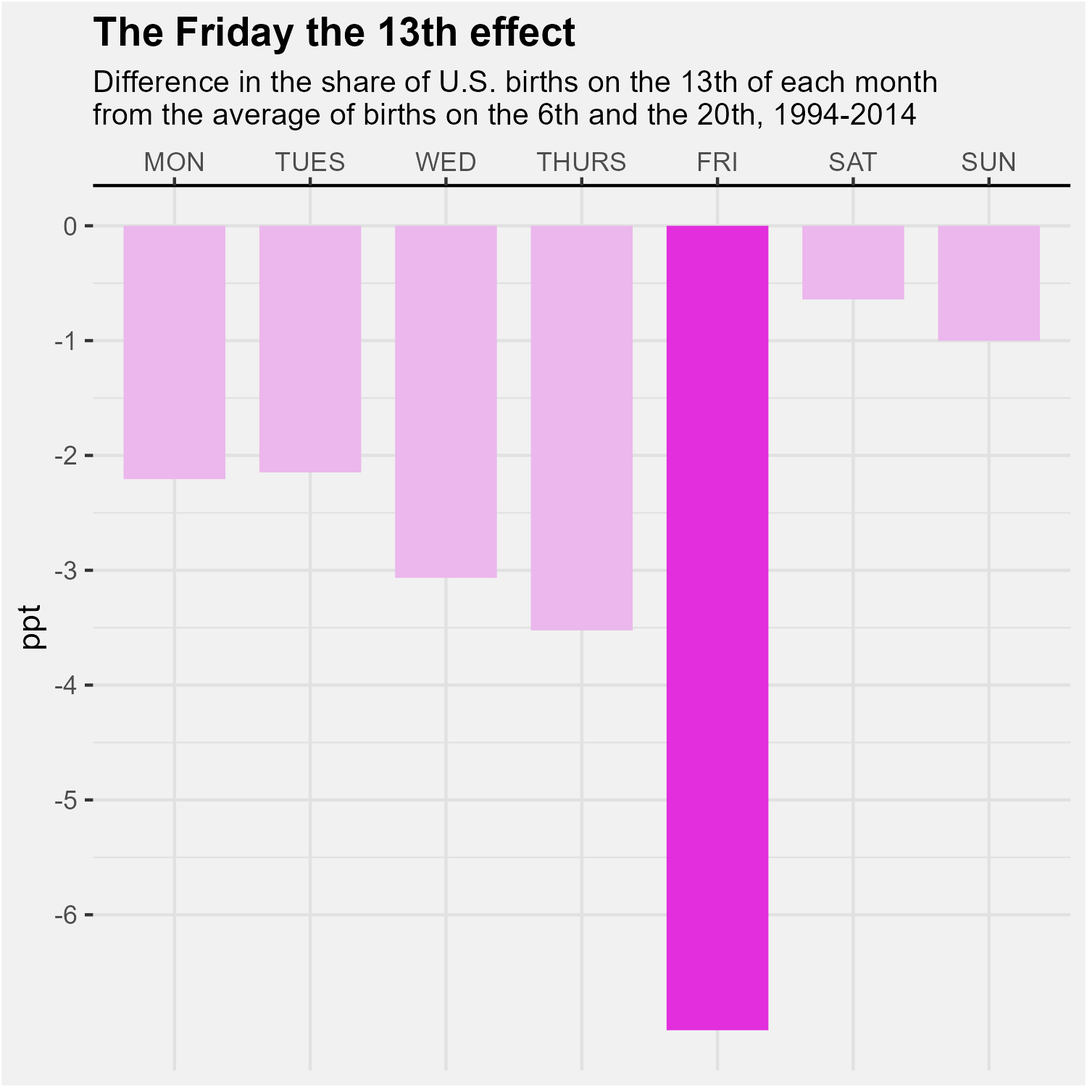
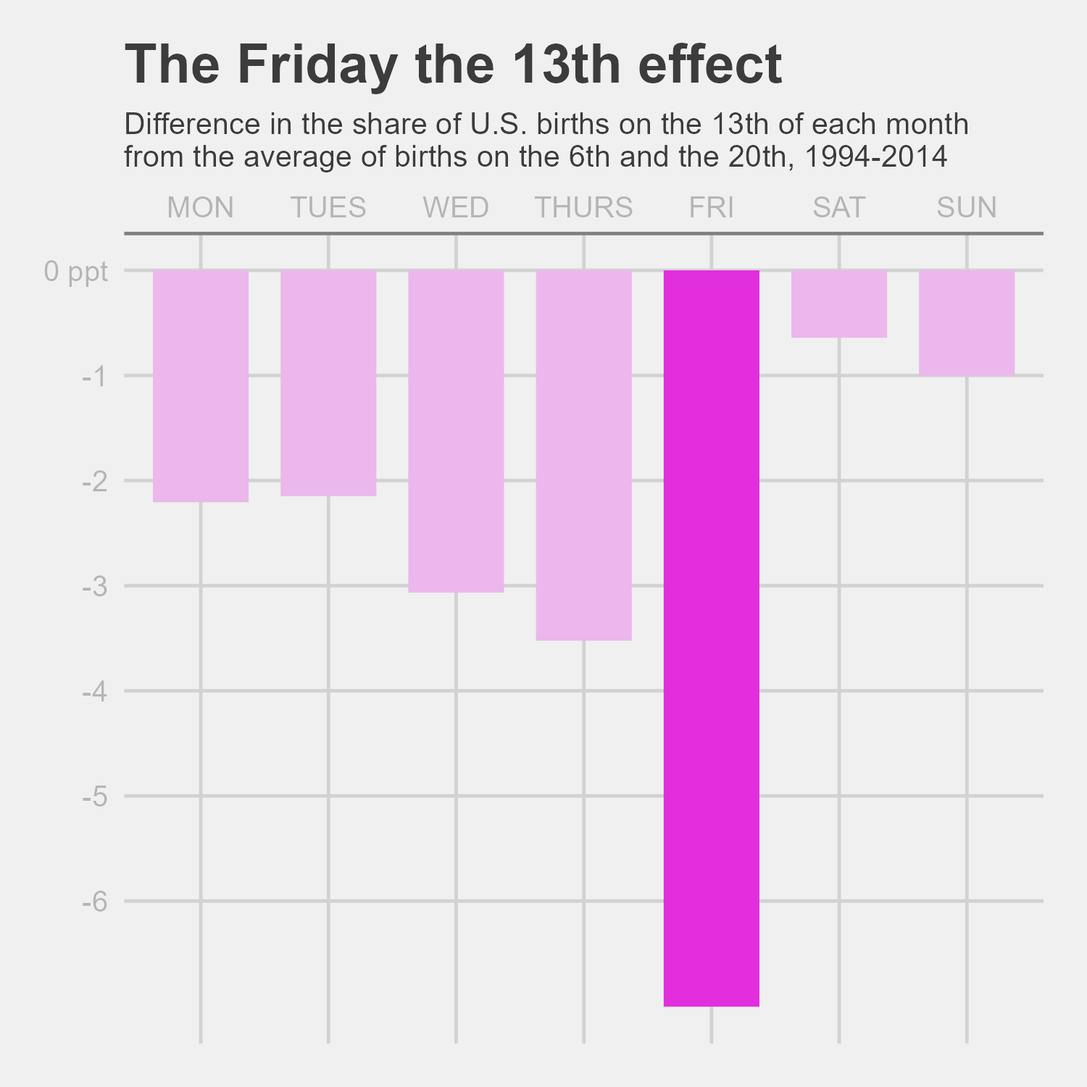
Update visualization exercise
based on comments from classmates

diff --git a/docs/visualization_exercise.html b/docs/visualization_exercise.html
@@ -212,15 +212,20 @@ code span.wa { color: #60a0b0; font-weight: bold; font-style: italic; } /* Warni
 <p>The data I will use is from the FiveThirtyEight article <a href="https://fivethirtyeight.com/features/some-people-are-too-superstitious-to-have-a-baby-on-friday-the-13th/">“Some People Are Too Superstitious To Have A Baby On Friday The 13th”</a> and the associated <a href="https://github.com/fivethirtyeight/data/tree/master/births">GitHub repository</a>. This article uses data from the National Center for Health Statistics (1994 - 2003) and the Social Security Administration (2000 - 2014). The two data files contain information on the year, month, date (as in number of the month), day of the week (1 represents Monday and 7 represents Sunday), and number of births for each date. For this exercise, I will be attempting to remake the first figure of the article shown below. <img src="VEorignalgraph.webp" class="img-fluid" width="451"></p>
 <div class="cell">
 <div class="sourceCode cell-code" id="cb1"><pre class="sourceCode r code-with-copy"><code class="sourceCode r"><span id="cb1-1"><a href="#cb1-1" aria-hidden="true" tabindex="-1"></a><span class="fu">library</span>(readr)</span>
-<span id="cb1-2"><a href="#cb1-2" aria-hidden="true" tabindex="-1"></a><span class="fu">library</span>(tidyverse)</span></code><button title="Copy to Clipboard" class="code-copy-button"><i class="bi"></i></button></pre></div>
+<span id="cb1-2"><a href="#cb1-2" aria-hidden="true" tabindex="-1"></a><span class="fu">library</span>(tidyverse)</span>
+<span id="cb1-3"><a href="#cb1-3" aria-hidden="true" tabindex="-1"></a><span class="fu">library</span>(ggthemes)</span></code><button title="Copy to Clipboard" class="code-copy-button"><i class="bi"></i></button></pre></div>
 </div>
 </section>
 <section id="data-loading" class="level2">
 <h2 class="anchored" data-anchor-id="data-loading">Data loading</h2>
 <p>I downloaded the data files and placed them into the data folder as <code>births1</code> and <code>births2</code>. Using the <code>read_delim()</code> function, these data sets will be assigned as <code>data1</code> and <code>data2</code>.</p>
 <div class="cell">
-<div class="sourceCode cell-code" id="cb2"><pre class="sourceCode r code-with-copy"><code class="sourceCode r"><span id="cb2-1"><a href="#cb2-1" aria-hidden="true" tabindex="-1"></a><span class="co">#summary of datasets</span></span>
-<span id="cb2-2"><a href="#cb2-2" aria-hidden="true" tabindex="-1"></a><span class="fu">summary</span>(data1)</span></code><button title="Copy to Clipboard" class="code-copy-button"><i class="bi"></i></button></pre></div>
+<div class="sourceCode cell-code" id="cb2"><pre class="sourceCode r code-with-copy"><code class="sourceCode r"><span id="cb2-1"><a href="#cb2-1" aria-hidden="true" tabindex="-1"></a>data1 <span class="ot">&lt;-</span> <span class="fu">read_delim</span>(<span class="at">file =</span> <span class="st">"data/births1.txt"</span>)</span>
+<span id="cb2-2"><a href="#cb2-2" aria-hidden="true" tabindex="-1"></a>data2 <span class="ot">&lt;-</span> <span class="fu">read_delim</span>(<span class="at">file =</span> <span class="st">"data/births2.txt"</span>)</span></code><button title="Copy to Clipboard" class="code-copy-button"><i class="bi"></i></button></pre></div>
+</div>
+<div class="cell">
+<div class="sourceCode cell-code" id="cb3"><pre class="sourceCode r code-with-copy"><code class="sourceCode r"><span id="cb3-1"><a href="#cb3-1" aria-hidden="true" tabindex="-1"></a><span class="co">#summary of datasets</span></span>
+<span id="cb3-2"><a href="#cb3-2" aria-hidden="true" tabindex="-1"></a><span class="fu">summary</span>(data1)</span></code><button title="Copy to Clipboard" class="code-copy-button"><i class="bi"></i></button></pre></div>
 <div class="cell-output cell-output-stdout">
 <pre><code>      year          month        date_of_month    day_of_week     births     
  Min.   :1994   Min.   : 1.000   Min.   : 1.00   Min.   :1    Min.   : 6443  
@@ -230,7 +235,7 @@ code span.wa { color: #60a0b0; font-weight: bold; font-style: italic; } /* Warni
  3rd Qu.:2001   3rd Qu.:10.000   3rd Qu.:23.00   3rd Qu.:6    3rd Qu.:12274  
  Max.   :2003   Max.   :12.000   Max.   :31.00   Max.   :7    Max.   :14540  </code></pre>
 </div>
-<div class="sourceCode cell-code" id="cb4"><pre class="sourceCode r code-with-copy"><code class="sourceCode r"><span id="cb4-1"><a href="#cb4-1" aria-hidden="true" tabindex="-1"></a><span class="fu">summary</span>(data2)</span></code><button title="Copy to Clipboard" class="code-copy-button"><i class="bi"></i></button></pre></div>
+<div class="sourceCode cell-code" id="cb5"><pre class="sourceCode r code-with-copy"><code class="sourceCode r"><span id="cb5-1"><a href="#cb5-1" aria-hidden="true" tabindex="-1"></a><span class="fu">summary</span>(data2)</span></code><button title="Copy to Clipboard" class="code-copy-button"><i class="bi"></i></button></pre></div>
 <div class="cell-output cell-output-stdout">
 <pre><code>      year          month        date_of_month    day_of_week     births     
  Min.   :2000   Min.   : 1.000   Min.   : 1.00   Min.   :1    Min.   : 5728  
@@ -240,12 +245,12 @@ code span.wa { color: #60a0b0; font-weight: bold; font-style: italic; } /* Warni
  3rd Qu.:2011   3rd Qu.:10.000   3rd Qu.:23.00   3rd Qu.:6    3rd Qu.:13082  
  Max.   :2014   Max.   :12.000   Max.   :31.00   Max.   :7    Max.   :16081  </code></pre>
 </div>
-<div class="sourceCode cell-code" id="cb6"><pre class="sourceCode r code-with-copy"><code class="sourceCode r"><span id="cb6-1"><a href="#cb6-1" aria-hidden="true" tabindex="-1"></a><span class="co">#check number of rows to identify potential issues when joining</span></span>
-<span id="cb6-2"><a href="#cb6-2" aria-hidden="true" tabindex="-1"></a><span class="fu">nrow</span>(data1)</span></code><button title="Copy to Clipboard" class="code-copy-button"><i class="bi"></i></button></pre></div>
+<div class="sourceCode cell-code" id="cb7"><pre class="sourceCode r code-with-copy"><code class="sourceCode r"><span id="cb7-1"><a href="#cb7-1" aria-hidden="true" tabindex="-1"></a><span class="co">#check number of rows to identify potential issues when joining</span></span>
+<span id="cb7-2"><a href="#cb7-2" aria-hidden="true" tabindex="-1"></a><span class="fu">nrow</span>(data1)</span></code><button title="Copy to Clipboard" class="code-copy-button"><i class="bi"></i></button></pre></div>
 <div class="cell-output cell-output-stdout">
 <pre><code>[1] 3652</code></pre>
 </div>
-<div class="sourceCode cell-code" id="cb8"><pre class="sourceCode r code-with-copy"><code class="sourceCode r"><span id="cb8-1"><a href="#cb8-1" aria-hidden="true" tabindex="-1"></a><span class="fu">nrow</span>(data2)</span></code><button title="Copy to Clipboard" class="code-copy-button"><i class="bi"></i></button></pre></div>
+<div class="sourceCode cell-code" id="cb9"><pre class="sourceCode r code-with-copy"><code class="sourceCode r"><span id="cb9-1"><a href="#cb9-1" aria-hidden="true" tabindex="-1"></a><span class="fu">nrow</span>(data2)</span></code><button title="Copy to Clipboard" class="code-copy-button"><i class="bi"></i></button></pre></div>
 <div class="cell-output cell-output-stdout">
 <pre><code>[1] 5479</code></pre>
 </div>
@@ -256,13 +261,30 @@ code span.wa { color: #60a0b0; font-weight: bold; font-style: italic; } /* Warni
 <h2 class="anchored" data-anchor-id="join-data-sets-from-sources">Join data sets from sources</h2>
 <p>The graph uses data from the years 1994-2014, so we need to join the datasets together to analyze. According to the footnote, the data of the overlapping years did not greatly differ. We can now join the two data sets with <code>full_join()</code>. We should use full join rather than other <code>_join()</code> options in order to preserve as much data as possible.</p>
 <div class="cell">
-<div class="sourceCode cell-code" id="cb10"><pre class="sourceCode r code-with-copy"><code class="sourceCode r"><span id="cb10-1"><a href="#cb10-1" aria-hidden="true" tabindex="-1"></a><span class="co">#join both data sets and assign to fulldata</span></span>
-<span id="cb10-2"><a href="#cb10-2" aria-hidden="true" tabindex="-1"></a>fulldata <span class="ot">&lt;-</span> <span class="fu">full_join</span>(data1, data2)</span></code><button title="Copy to Clipboard" class="code-copy-button"><i class="bi"></i></button></pre></div>
+<div class="sourceCode cell-code" id="cb11"><pre class="sourceCode r code-with-copy"><code class="sourceCode r"><span id="cb11-1"><a href="#cb11-1" aria-hidden="true" tabindex="-1"></a><span class="co">#join both data sets and assign to fulldata</span></span>
+<span id="cb11-2"><a href="#cb11-2" aria-hidden="true" tabindex="-1"></a>fulldata <span class="ot">&lt;-</span> <span class="fu">full_join</span>(data1, data2)</span></code><button title="Copy to Clipboard" class="code-copy-button"><i class="bi"></i></button></pre></div>
 <div class="cell-output cell-output-stderr">
 <pre><code>Joining, by = c("year", "month", "date_of_month", "day_of_week", "births")</code></pre>
 </div>
-<div class="sourceCode cell-code" id="cb12"><pre class="sourceCode r code-with-copy"><code class="sourceCode r"><span id="cb12-1"><a href="#cb12-1" aria-hidden="true" tabindex="-1"></a><span class="co">#summary of dataset and check for joining issues</span></span>
-<span id="cb12-2"><a href="#cb12-2" aria-hidden="true" tabindex="-1"></a><span class="fu">summary</span>(fulldata)</span></code><button title="Copy to Clipboard" class="code-copy-button"><i class="bi"></i></button></pre></div>
+<div class="sourceCode cell-code" id="cb13"><pre class="sourceCode r code-with-copy"><code class="sourceCode r"><span id="cb13-1"><a href="#cb13-1" aria-hidden="true" tabindex="-1"></a><span class="co">#visual display of 10 random observations in fulldata set</span></span>
+<span id="cb13-2"><a href="#cb13-2" aria-hidden="true" tabindex="-1"></a><span class="fu">slice_sample</span>(fulldata, <span class="at">n =</span> <span class="dv">10</span>)</span></code><button title="Copy to Clipboard" class="code-copy-button"><i class="bi"></i></button></pre></div>
+<div class="cell-output cell-output-stdout">
+<pre><code># A tibble: 10 × 5
+    year month date_of_month day_of_week births
+   &lt;dbl&gt; &lt;dbl&gt;         &lt;dbl&gt;       &lt;dbl&gt;  &lt;dbl&gt;
+ 1  1995     4            15           6   8492
+ 2  2003     3            13           4  12333
+ 3  2011     9             1           4  13723
+ 4  1997    10            21           2  11957
+ 5  2010    11             8           1  12023
+ 6  1998     2            10           2  12166
+ 7  2001     4            11           3  12631
+ 8  1996     7            19           5  12049
+ 9  2009    11            11           3  12889
+10  2013    12             9           1  11824</code></pre>
+</div>
+<div class="sourceCode cell-code" id="cb15"><pre class="sourceCode r code-with-copy"><code class="sourceCode r"><span id="cb15-1"><a href="#cb15-1" aria-hidden="true" tabindex="-1"></a><span class="co">#summary of dataset and check for joining issues</span></span>
+<span id="cb15-2"><a href="#cb15-2" aria-hidden="true" tabindex="-1"></a><span class="fu">summary</span>(fulldata)</span></code><button title="Copy to Clipboard" class="code-copy-button"><i class="bi"></i></button></pre></div>
 <div class="cell-output cell-output-stdout">
 <pre><code>      year          month        date_of_month    day_of_week     births     
  Min.   :1994   Min.   : 1.000   Min.   : 1.00   Min.   :1    Min.   : 5728  
@@ -272,7 +294,7 @@ code span.wa { color: #60a0b0; font-weight: bold; font-style: italic; } /* Warni
  3rd Qu.:2008   3rd Qu.:10.000   3rd Qu.:23.00   3rd Qu.:6    3rd Qu.:12774  
  Max.   :2014   Max.   :12.000   Max.   :31.00   Max.   :7    Max.   :16081  </code></pre>
 </div>
-<div class="sourceCode cell-code" id="cb14"><pre class="sourceCode r code-with-copy"><code class="sourceCode r"><span id="cb14-1"><a href="#cb14-1" aria-hidden="true" tabindex="-1"></a><span class="fu">str</span>(fulldata)</span></code><button title="Copy to Clipboard" class="code-copy-button"><i class="bi"></i></button></pre></div>
+<div class="sourceCode cell-code" id="cb17"><pre class="sourceCode r code-with-copy"><code class="sourceCode r"><span id="cb17-1"><a href="#cb17-1" aria-hidden="true" tabindex="-1"></a><span class="fu">str</span>(fulldata)</span></code><button title="Copy to Clipboard" class="code-copy-button"><i class="bi"></i></button></pre></div>
 <div class="cell-output cell-output-stdout">
 <pre><code>spc_tbl_ [9,131 × 5] (S3: spec_tbl_df/tbl_df/tbl/data.frame)
  $ year         : num [1:9131] 1994 1994 1994 1994 1994 ...
@@ -297,42 +319,56 @@ code span.wa { color: #60a0b0; font-weight: bold; font-style: italic; } /* Warni
 <h2 class="anchored" data-anchor-id="manipulate-data">Manipulate data</h2>
 <p>Now that we have the data for the full range of years, we need to manipulate the data to find the average number of births on the 6th or 20th of the month compared to the average number of of births on the 13th of the month. Since the graph is separated by weekday, we need to first group by weekday.</p>
 <div class="cell">
-<div class="sourceCode cell-code" id="cb16"><pre class="sourceCode r code-with-copy"><code class="sourceCode r"><span id="cb16-1"><a href="#cb16-1" aria-hidden="true" tabindex="-1"></a><span class="co">#assign to plot1data: find the average number of births on each weekday </span></span>
-<span id="cb16-2"><a href="#cb16-2" aria-hidden="true" tabindex="-1"></a>  <span class="co">#for the 6th or 20th of the month (new variable: avg620),</span></span>
-<span id="cb16-3"><a href="#cb16-3" aria-hidden="true" tabindex="-1"></a><span class="co">#the average number of births on each weekday </span></span>
-<span id="cb16-4"><a href="#cb16-4" aria-hidden="true" tabindex="-1"></a>  <span class="co">#for the 13th of the month(new variable: avg13),</span></span>
-<span id="cb16-5"><a href="#cb16-5" aria-hidden="true" tabindex="-1"></a><span class="co">#and the percent difference for each weekday(new variable: pctdiff)</span></span>
-<span id="cb16-6"><a href="#cb16-6" aria-hidden="true" tabindex="-1"></a>plot1data <span class="ot">&lt;-</span> fulldata <span class="sc">%&gt;%</span> <span class="fu">group_by</span>(day_of_week) <span class="sc">%&gt;%</span> </span>
-<span id="cb16-7"><a href="#cb16-7" aria-hidden="true" tabindex="-1"></a>  <span class="fu">summarise</span>(<span class="at">avg620 =</span> <span class="fu">mean</span>(births[date_of_month <span class="sc">==</span> <span class="dv">6</span> <span class="sc">|</span> date_of_month <span class="sc">==</span> <span class="dv">20</span>]),</span>
-<span id="cb16-8"><a href="#cb16-8" aria-hidden="true" tabindex="-1"></a>            <span class="at">avg13 =</span> <span class="fu">mean</span>(births[date_of_month <span class="sc">==</span> <span class="dv">13</span>])) <span class="sc">%&gt;%</span></span>
-<span id="cb16-9"><a href="#cb16-9" aria-hidden="true" tabindex="-1"></a>  <span class="fu">mutate</span>(<span class="at">pctdiff =</span> (avg13<span class="sc">-</span>avg620)<span class="sc">/</span>avg13 <span class="sc">*</span><span class="dv">100</span>)</span>
-<span id="cb16-10"><a href="#cb16-10" aria-hidden="true" tabindex="-1"></a></span>
-<span id="cb16-11"><a href="#cb16-11" aria-hidden="true" tabindex="-1"></a><span class="co">#recode days of the week for plot labels, </span></span>
-<span id="cb16-12"><a href="#cb16-12" aria-hidden="true" tabindex="-1"></a>  <span class="co">#factor to keep days ordered for graph</span></span>
-<span id="cb16-13"><a href="#cb16-13" aria-hidden="true" tabindex="-1"></a>plot1data<span class="ot">&lt;-</span> plot1data <span class="sc">%&gt;%</span> </span>
-<span id="cb16-14"><a href="#cb16-14" aria-hidden="true" tabindex="-1"></a>  <span class="fu">mutate</span>(<span class="at">day_of_week =</span> <span class="fu">case_when</span>(</span>
-<span id="cb16-15"><a href="#cb16-15" aria-hidden="true" tabindex="-1"></a>    day_of_week <span class="sc">%in%</span> <span class="dv">1</span> <span class="sc">~</span> <span class="st">"MON"</span>,</span>
-<span id="cb16-16"><a href="#cb16-16" aria-hidden="true" tabindex="-1"></a>    day_of_week <span class="sc">%in%</span> <span class="dv">2</span> <span class="sc">~</span> <span class="st">"TUES"</span>,</span>
-<span id="cb16-17"><a href="#cb16-17" aria-hidden="true" tabindex="-1"></a>    day_of_week <span class="sc">%in%</span> <span class="dv">3</span> <span class="sc">~</span> <span class="st">"WED"</span>,</span>
-<span id="cb16-18"><a href="#cb16-18" aria-hidden="true" tabindex="-1"></a>    day_of_week <span class="sc">%in%</span> <span class="dv">4</span> <span class="sc">~</span> <span class="st">"THURS"</span>,</span>
-<span id="cb16-19"><a href="#cb16-19" aria-hidden="true" tabindex="-1"></a>    day_of_week <span class="sc">%in%</span> <span class="dv">5</span> <span class="sc">~</span> <span class="st">"FRI"</span>,</span>
-<span id="cb16-20"><a href="#cb16-20" aria-hidden="true" tabindex="-1"></a>    day_of_week <span class="sc">%in%</span> <span class="dv">6</span> <span class="sc">~</span> <span class="st">"SAT"</span>,</span>
-<span id="cb16-21"><a href="#cb16-21" aria-hidden="true" tabindex="-1"></a>    day_of_week <span class="sc">%in%</span> <span class="dv">7</span> <span class="sc">~</span> <span class="st">"SUN"</span>)) <span class="sc">%&gt;%</span> </span>
-<span id="cb16-22"><a href="#cb16-22" aria-hidden="true" tabindex="-1"></a>  <span class="fu">mutate</span>(<span class="at">day_of_week =</span> <span class="fu">factor</span>(day_of_week,</span>
-<span id="cb16-23"><a href="#cb16-23" aria-hidden="true" tabindex="-1"></a>        <span class="at">levels =</span> <span class="fu">c</span>(<span class="st">"MON"</span>, <span class="st">"TUES"</span>, <span class="st">"WED"</span>, <span class="st">"THURS"</span>, <span class="st">"FRI"</span>, <span class="st">"SAT"</span>, <span class="st">"SUN"</span>)))</span>
-<span id="cb16-24"><a href="#cb16-24" aria-hidden="true" tabindex="-1"></a>  </span>
-<span id="cb16-25"><a href="#cb16-25" aria-hidden="true" tabindex="-1"></a></span>
-<span id="cb16-26"><a href="#cb16-26" aria-hidden="true" tabindex="-1"></a><span class="co">#check new dataset</span></span>
-<span id="cb16-27"><a href="#cb16-27" aria-hidden="true" tabindex="-1"></a><span class="fu">summary</span>(plot1data)</span></code><button title="Copy to Clipboard" class="code-copy-button"><i class="bi"></i></button></pre></div>
+<div class="sourceCode cell-code" id="cb19"><pre class="sourceCode r code-with-copy"><code class="sourceCode r"><span id="cb19-1"><a href="#cb19-1" aria-hidden="true" tabindex="-1"></a><span class="co">#assign to plot1data and create 3 new variables</span></span>
+<span id="cb19-2"><a href="#cb19-2" aria-hidden="true" tabindex="-1"></a>plot1data <span class="ot">&lt;-</span> fulldata <span class="sc">%&gt;%</span> <span class="fu">group_by</span>(day_of_week) <span class="sc">%&gt;%</span> </span>
+<span id="cb19-3"><a href="#cb19-3" aria-hidden="true" tabindex="-1"></a>  <span class="fu">summarise</span>(<span class="at">avg620 =</span> <span class="fu">mean</span>(births[date_of_month <span class="sc">==</span> <span class="dv">6</span> <span class="sc">|</span> date_of_month <span class="sc">==</span> <span class="dv">20</span>]), <span class="co">#average number of births on each weekday for the 6th or 20th of the month</span></span>
+<span id="cb19-4"><a href="#cb19-4" aria-hidden="true" tabindex="-1"></a>            <span class="at">avg13 =</span> <span class="fu">mean</span>(births[date_of_month <span class="sc">==</span> <span class="dv">13</span>])) <span class="sc">%&gt;%</span> <span class="co">#the average number of births on each weekday for the 13th of the month</span></span>
+<span id="cb19-5"><a href="#cb19-5" aria-hidden="true" tabindex="-1"></a>  <span class="fu">mutate</span>(<span class="at">pctdiff =</span> (avg13<span class="sc">-</span>avg620)<span class="sc">/</span>avg13 <span class="sc">*</span><span class="dv">100</span>) <span class="co">#the percent difference for each weekday</span></span>
+<span id="cb19-6"><a href="#cb19-6" aria-hidden="true" tabindex="-1"></a></span>
+<span id="cb19-7"><a href="#cb19-7" aria-hidden="true" tabindex="-1"></a><span class="co">#check the new data set</span></span>
+<span id="cb19-8"><a href="#cb19-8" aria-hidden="true" tabindex="-1"></a><span class="fu">head</span>(plot1data, <span class="dv">7</span>)</span></code><button title="Copy to Clipboard" class="code-copy-button"><i class="bi"></i></button></pre></div>
 <div class="cell-output cell-output-stdout">
-<pre><code> day_of_week     avg620          avg13          pctdiff       
- MON  :1     Min.   : 7636   Min.   : 7560   Min.   :-7.0055  
- TUES :1     1st Qu.:10150   1st Qu.: 9997   1st Qu.:-3.2948  
- WED  :1     Median :12559   Median :11737   Median :-2.2064  
- THURS:1     Mean   :11265   Mean   :10938   Mean   :-2.7989  
- FRI  :1     3rd Qu.:12744   3rd Qu.:12337   3rd Qu.:-1.5748  
- SAT  :1     Max.   :12870   Max.   :12600   Max.   :-0.6414  
- SUN  :1                                                      </code></pre>
+<pre><code># A tibble: 7 × 4
+  day_of_week avg620  avg13 pctdiff
+        &lt;dbl&gt;  &lt;dbl&gt;  &lt;dbl&gt;   &lt;dbl&gt;
+1           1 11645. 11394.  -2.21 
+2           2 12870. 12600.  -2.15 
+3           3 12774. 12394.  -3.07 
+4           4 12713. 12280.  -3.52 
+5           5 12559. 11737.  -7.01 
+6           6  8655.  8600.  -0.641
+7           7  7636.  7560.  -1.00 </code></pre>
+</div>
+</div>
+<p>I want to also recode the <code>day_of_week</code> column into days rather than numbers for the graph labeling. To preserve the weekday order, I will need to change the variable into a factor using <code>mutate()</code> and <code>factor()</code> functions.</p>
+<div class="cell">
+<div class="sourceCode cell-code" id="cb21"><pre class="sourceCode r code-with-copy"><code class="sourceCode r"><span id="cb21-1"><a href="#cb21-1" aria-hidden="true" tabindex="-1"></a><span class="co">#recode days of the week for plot labels and factor to keep days ordered for graph</span></span>
+<span id="cb21-2"><a href="#cb21-2" aria-hidden="true" tabindex="-1"></a>plot1data<span class="ot">&lt;-</span> plot1data <span class="sc">%&gt;%</span> </span>
+<span id="cb21-3"><a href="#cb21-3" aria-hidden="true" tabindex="-1"></a>  <span class="fu">mutate</span>(<span class="at">day_of_week =</span> <span class="fu">case_when</span>(</span>
+<span id="cb21-4"><a href="#cb21-4" aria-hidden="true" tabindex="-1"></a>    day_of_week <span class="sc">%in%</span> <span class="dv">1</span> <span class="sc">~</span> <span class="st">"MON"</span>,</span>
+<span id="cb21-5"><a href="#cb21-5" aria-hidden="true" tabindex="-1"></a>    day_of_week <span class="sc">%in%</span> <span class="dv">2</span> <span class="sc">~</span> <span class="st">"TUES"</span>,</span>
+<span id="cb21-6"><a href="#cb21-6" aria-hidden="true" tabindex="-1"></a>    day_of_week <span class="sc">%in%</span> <span class="dv">3</span> <span class="sc">~</span> <span class="st">"WED"</span>,</span>
+<span id="cb21-7"><a href="#cb21-7" aria-hidden="true" tabindex="-1"></a>    day_of_week <span class="sc">%in%</span> <span class="dv">4</span> <span class="sc">~</span> <span class="st">"THURS"</span>,</span>
+<span id="cb21-8"><a href="#cb21-8" aria-hidden="true" tabindex="-1"></a>    day_of_week <span class="sc">%in%</span> <span class="dv">5</span> <span class="sc">~</span> <span class="st">"FRI"</span>,</span>
+<span id="cb21-9"><a href="#cb21-9" aria-hidden="true" tabindex="-1"></a>    day_of_week <span class="sc">%in%</span> <span class="dv">6</span> <span class="sc">~</span> <span class="st">"SAT"</span>,</span>
+<span id="cb21-10"><a href="#cb21-10" aria-hidden="true" tabindex="-1"></a>    day_of_week <span class="sc">%in%</span> <span class="dv">7</span> <span class="sc">~</span> <span class="st">"SUN"</span>)) <span class="sc">%&gt;%</span> </span>
+<span id="cb21-11"><a href="#cb21-11" aria-hidden="true" tabindex="-1"></a>  <span class="fu">mutate</span>(<span class="at">day_of_week =</span> <span class="fu">factor</span>(day_of_week,</span>
+<span id="cb21-12"><a href="#cb21-12" aria-hidden="true" tabindex="-1"></a>        <span class="at">levels =</span> <span class="fu">c</span>(<span class="st">"MON"</span>, <span class="st">"TUES"</span>, <span class="st">"WED"</span>, <span class="st">"THURS"</span>, <span class="st">"FRI"</span>, <span class="st">"SAT"</span>, <span class="st">"SUN"</span>)))</span>
+<span id="cb21-13"><a href="#cb21-13" aria-hidden="true" tabindex="-1"></a>  </span>
+<span id="cb21-14"><a href="#cb21-14" aria-hidden="true" tabindex="-1"></a></span>
+<span id="cb21-15"><a href="#cb21-15" aria-hidden="true" tabindex="-1"></a><span class="co">#check new dataset</span></span>
+<span id="cb21-16"><a href="#cb21-16" aria-hidden="true" tabindex="-1"></a><span class="fu">head</span>(plot1data, <span class="dv">7</span>)</span></code><button title="Copy to Clipboard" class="code-copy-button"><i class="bi"></i></button></pre></div>
+<div class="cell-output cell-output-stdout">
+<pre><code># A tibble: 7 × 4
+  day_of_week avg620  avg13 pctdiff
+  &lt;fct&gt;        &lt;dbl&gt;  &lt;dbl&gt;   &lt;dbl&gt;
+1 MON         11645. 11394.  -2.21 
+2 TUES        12870. 12600.  -2.15 
+3 WED         12774. 12394.  -3.07 
+4 THURS       12713. 12280.  -3.52 
+5 FRI         12559. 11737.  -7.01 
+6 SAT          8655.  8600.  -0.641
+7 SUN          7636.  7560.  -1.00 </code></pre>
 </div>
 </div>
 <p>The new dataframe <code>plot1data</code> has a summary of the average number of births on the 6th or 20th and the average number of births on the 13th as well as the percent difference for each weekday. Notice that we needed to use the <code>summarise()</code> rather than the <code>mutate()</code> function to create the new variables. The <code>summarise()</code> function returns one row for a group of observations after a <code>group_by()</code> statement while <code>mutate()</code> returns the same number of rows as the original dataset.</p>
@@ -342,27 +378,36 @@ code span.wa { color: #60a0b0; font-weight: bold; font-style: italic; } /* Warni
 <p>Using the <code>plot1data</code>, we can attempt to recreate the graph using the <code>ggplot()</code> and associated functions. The <code>geom_col()</code> function will be the basis of the graph, and the <code>theme()</code>, <code>labs()</code>, <code>scale_x_discrete()</code>, <code>scale_y_continuous()</code> , and <code>scale_fill_manual()</code> functions all adjusted the graph elements to look like the original graph (or at least as close as I can get to it!).</p>
 <p>Note: Because I did not remove data for the national holidays that fall on either the 6th or 20th between 1994 to 2014, my graph data may not match the article’s exactly, but the trends are still present.</p>
 <div class="cell">
-<div class="sourceCode cell-code" id="cb18"><pre class="sourceCode r code-with-copy"><code class="sourceCode r"><span id="cb18-1"><a href="#cb18-1" aria-hidden="true" tabindex="-1"></a><span class="co">#plot the data and adjust graph appearance to article</span></span>
-<span id="cb18-2"><a href="#cb18-2" aria-hidden="true" tabindex="-1"></a><span class="fu">ggplot</span>(plot1data)<span class="sc">+</span></span>
-<span id="cb18-3"><a href="#cb18-3" aria-hidden="true" tabindex="-1"></a>  <span class="fu">geom_col</span>(<span class="fu">aes</span>(<span class="at">x =</span> day_of_week, <span class="at">y =</span> pctdiff, <span class="at">fill =</span> day_of_week), <span class="at">width =</span> <span class="fl">0.75</span>)<span class="sc">+</span></span>
-<span id="cb18-4"><a href="#cb18-4" aria-hidden="true" tabindex="-1"></a>  <span class="fu">theme</span>(<span class="at">panel.grid =</span> <span class="fu">element_line</span>(<span class="at">colour =</span> <span class="st">"#E1E1E1"</span>),</span>
-<span id="cb18-5"><a href="#cb18-5" aria-hidden="true" tabindex="-1"></a>        <span class="at">plot.background =</span> <span class="fu">element_rect</span>(<span class="at">fill =</span> <span class="st">"#F1F1F1"</span> ),</span>
-<span id="cb18-6"><a href="#cb18-6" aria-hidden="true" tabindex="-1"></a>        <span class="at">panel.background =</span> <span class="fu">element_rect</span>(<span class="at">fill =</span> <span class="st">"#F1F1F1"</span>),</span>
-<span id="cb18-7"><a href="#cb18-7" aria-hidden="true" tabindex="-1"></a>        <span class="at">axis.line.x =</span> <span class="fu">element_line</span>(<span class="at">color =</span> <span class="st">"black"</span>),</span>
-<span id="cb18-8"><a href="#cb18-8" aria-hidden="true" tabindex="-1"></a>        <span class="at">plot.title =</span> <span class="fu">element_text</span>(<span class="at">face =</span> <span class="st">"bold"</span>),</span>
-<span id="cb18-9"><a href="#cb18-9" aria-hidden="true" tabindex="-1"></a>        <span class="at">plot.subtitle =</span> <span class="fu">element_text</span>(<span class="at">size =</span> <span class="dv">10</span>),</span>
-<span id="cb18-10"><a href="#cb18-10" aria-hidden="true" tabindex="-1"></a>        <span class="at">legend.position =</span> <span class="st">"none"</span>)<span class="sc">+</span></span>
-<span id="cb18-11"><a href="#cb18-11" aria-hidden="true" tabindex="-1"></a>  <span class="fu">labs</span>(<span class="at">title =</span> <span class="st">"The Friday the 13th effect"</span>,</span>
-<span id="cb18-12"><a href="#cb18-12" aria-hidden="true" tabindex="-1"></a>       <span class="at">subtitle =</span> <span class="st">"Difference in the share of U.S. births on the 13th of each month</span><span class="sc">\n</span><span class="st">from the average of births on the 6th and the 20th, 1994-2014"</span>,</span>
-<span id="cb18-13"><a href="#cb18-13" aria-hidden="true" tabindex="-1"></a>       <span class="at">y =</span> <span class="st">"ppt"</span>, <span class="at">x =</span> <span class="cn">NULL</span>)<span class="sc">+</span></span>
-<span id="cb18-14"><a href="#cb18-14" aria-hidden="true" tabindex="-1"></a>  <span class="fu">scale_x_discrete</span>(<span class="at">position =</span> <span class="st">"top"</span>)<span class="sc">+</span></span>
-<span id="cb18-15"><a href="#cb18-15" aria-hidden="true" tabindex="-1"></a>  <span class="fu">scale_y_continuous</span>(<span class="at">breaks =</span> <span class="fu">c</span>(<span class="dv">0</span>,<span class="sc">-</span><span class="dv">1</span>,<span class="sc">-</span><span class="dv">2</span>,<span class="sc">-</span><span class="dv">3</span>,<span class="sc">-</span><span class="dv">4</span>,<span class="sc">-</span><span class="dv">5</span>,<span class="sc">-</span><span class="dv">6</span>))<span class="sc">+</span></span>
-<span id="cb18-16"><a href="#cb18-16" aria-hidden="true" tabindex="-1"></a>  <span class="fu">scale_fill_manual</span>(<span class="at">values =</span></span>
-<span id="cb18-17"><a href="#cb18-17" aria-hidden="true" tabindex="-1"></a>        <span class="fu">c</span>(<span class="st">"#EBB7EC"</span>, <span class="st">"#EBB7EC"</span>, <span class="st">"#EBB7EC"</span>, <span class="st">"#EBB7EC"</span>,</span>
-<span id="cb18-18"><a href="#cb18-18" aria-hidden="true" tabindex="-1"></a>                   <span class="st">"#E22EDD"</span>, <span class="st">"#EBB7EC"</span>, <span class="st">"#EBB7EC"</span>))</span></code><button title="Copy to Clipboard" class="code-copy-button"><i class="bi"></i></button></pre></div>
-<div class="sourceCode cell-code" id="cb19"><pre class="sourceCode r code-with-copy"><code class="sourceCode r"><span id="cb19-1"><a href="#cb19-1" aria-hidden="true" tabindex="-1"></a><span class="fu">ggsave</span>(<span class="st">"remadegraph.png"</span>, <span class="at">width =</span> <span class="dv">5</span>, <span class="at">height=</span> <span class="dv">5</span>)</span></code><button title="Copy to Clipboard" class="code-copy-button"><i class="bi"></i></button></pre></div>
+<div class="sourceCode cell-code" id="cb23"><pre class="sourceCode r code-with-copy"><code class="sourceCode r"><span id="cb23-1"><a href="#cb23-1" aria-hidden="true" tabindex="-1"></a><span class="co">#set up standard plot</span></span>
+<span id="cb23-2"><a href="#cb23-2" aria-hidden="true" tabindex="-1"></a><span class="fu">ggplot</span>(plot1data)<span class="sc">+</span></span>
+<span id="cb23-3"><a href="#cb23-3" aria-hidden="true" tabindex="-1"></a>  <span class="fu">geom_col</span>(<span class="fu">aes</span>(<span class="at">x =</span> day_of_week, <span class="at">y =</span> pctdiff, <span class="at">fill =</span> day_of_week), <span class="at">width =</span> <span class="fl">0.75</span>)<span class="sc">+</span></span>
+<span id="cb23-4"><a href="#cb23-4" aria-hidden="true" tabindex="-1"></a>  <span class="fu">theme_fivethirtyeight</span>()<span class="sc">+</span> <span class="co">#theme from article database</span></span>
+<span id="cb23-5"><a href="#cb23-5" aria-hidden="true" tabindex="-1"></a></span>
+<span id="cb23-6"><a href="#cb23-6" aria-hidden="true" tabindex="-1"></a><span class="co">#add labeling</span></span>
+<span id="cb23-7"><a href="#cb23-7" aria-hidden="true" tabindex="-1"></a>  <span class="fu">labs</span>(<span class="at">title =</span> <span class="st">"The Friday the 13th effect"</span>,</span>
+<span id="cb23-8"><a href="#cb23-8" aria-hidden="true" tabindex="-1"></a>       <span class="at">subtitle =</span> <span class="st">"Difference in the share of U.S. births on the 13th of each month</span><span class="sc">\n</span><span class="st">from the average of births on the 6th and the 20th, 1994-2014"</span>,</span>
+<span id="cb23-9"><a href="#cb23-9" aria-hidden="true" tabindex="-1"></a>       <span class="at">y =</span> <span class="st">"ppt"</span>, <span class="at">x =</span> <span class="cn">NULL</span>)<span class="sc">+</span> <span class="co"># add title, subtitle, y axis title and remove x axis</span></span>
+<span id="cb23-10"><a href="#cb23-10" aria-hidden="true" tabindex="-1"></a></span>
+<span id="cb23-11"><a href="#cb23-11" aria-hidden="true" tabindex="-1"></a><span class="co">#add axis elements and bar colors</span></span>
+<span id="cb23-12"><a href="#cb23-12" aria-hidden="true" tabindex="-1"></a>  <span class="fu">scale_x_discrete</span>(<span class="at">position =</span> <span class="st">"top"</span>)<span class="sc">+</span> <span class="co">#move x axis to top of graph,</span></span>
+<span id="cb23-13"><a href="#cb23-13" aria-hidden="true" tabindex="-1"></a>  <span class="fu">scale_y_continuous</span>(<span class="at">breaks =</span> <span class="fu">c</span>(<span class="dv">0</span>,<span class="sc">-</span><span class="dv">1</span>,<span class="sc">-</span><span class="dv">2</span>,<span class="sc">-</span><span class="dv">3</span>,<span class="sc">-</span><span class="dv">4</span>,<span class="sc">-</span><span class="dv">5</span>,<span class="sc">-</span><span class="dv">6</span>), <span class="at">labels =</span> <span class="fu">c</span>(<span class="st">"0 ppt"</span>, <span class="st">"-1"</span>,<span class="st">"-2"</span>,<span class="st">"-3"</span>,<span class="st">"-4"</span>,<span class="st">"-5"</span>,<span class="st">"-6"</span>))<span class="sc">+</span> <span class="co">#define y axis tick marks and labels</span></span>
+<span id="cb23-14"><a href="#cb23-14" aria-hidden="true" tabindex="-1"></a>  <span class="fu">scale_fill_manual</span>(<span class="at">values =</span></span>
+<span id="cb23-15"><a href="#cb23-15" aria-hidden="true" tabindex="-1"></a>        <span class="fu">c</span>(<span class="st">"#EBB7EC"</span>, <span class="st">"#EBB7EC"</span>, <span class="st">"#EBB7EC"</span>, <span class="st">"#EBB7EC"</span>,</span>
+<span id="cb23-16"><a href="#cb23-16" aria-hidden="true" tabindex="-1"></a>                   <span class="st">"#E22EDD"</span>, <span class="st">"#EBB7EC"</span>, <span class="st">"#EBB7EC"</span>))<span class="sc">+</span> <span class="co">#bar colors</span></span>
+<span id="cb23-17"><a href="#cb23-17" aria-hidden="true" tabindex="-1"></a>                     </span>
+<span id="cb23-18"><a href="#cb23-18" aria-hidden="true" tabindex="-1"></a><span class="co">#Adjust theme to match graph aesthetics</span></span>
+<span id="cb23-19"><a href="#cb23-19" aria-hidden="true" tabindex="-1"></a>  <span class="fu">theme</span>(<span class="at">panel.grid =</span> <span class="fu">element_line</span>(<span class="at">colour =</span> <span class="st">"#E0E0E0"</span>), <span class="co">#light grey for grid lines</span></span>
+<span id="cb23-20"><a href="#cb23-20" aria-hidden="true" tabindex="-1"></a>        <span class="at">panel.background =</span> <span class="fu">element_rect</span>(<span class="at">fill =</span> <span class="st">"#F0F0F0"</span>), <span class="co">#light grey for panel background</span></span>
+<span id="cb23-21"><a href="#cb23-21" aria-hidden="true" tabindex="-1"></a>        <span class="at">plot.background =</span> <span class="fu">element_rect</span>(<span class="at">fill =</span> <span class="st">"#F0F0F0"</span> ), <span class="co">#light grey for graph background</span></span>
+<span id="cb23-22"><a href="#cb23-22" aria-hidden="true" tabindex="-1"></a>        <span class="at">axis.line.x =</span> <span class="fu">element_line</span>(<span class="at">color =</span> <span class="st">"#808080"</span>), <span class="co"># black for x axis</span></span>
+<span id="cb23-23"><a href="#cb23-23" aria-hidden="true" tabindex="-1"></a>        <span class="at">axis.text =</span> <span class="fu">element_text</span>(<span class="at">color =</span> <span class="st">"#b5b5b5"</span>), <span class="co">#grey color of axis labels</span></span>
+<span id="cb23-24"><a href="#cb23-24" aria-hidden="true" tabindex="-1"></a>        <span class="at">plot.title =</span> <span class="fu">element_text</span>(<span class="at">face =</span> <span class="st">"bold"</span>), <span class="co"># bold title</span></span>
+<span id="cb23-25"><a href="#cb23-25" aria-hidden="true" tabindex="-1"></a>        <span class="at">plot.subtitle =</span> <span class="fu">element_text</span>(<span class="at">size =</span> <span class="dv">10</span>), <span class="co">#change size of subtitle</span></span>
+<span id="cb23-26"><a href="#cb23-26" aria-hidden="true" tabindex="-1"></a>        <span class="at">legend.position =</span> <span class="st">"none"</span>, <span class="co"># remove legend</span></span>
+<span id="cb23-27"><a href="#cb23-27" aria-hidden="true" tabindex="-1"></a>        <span class="at">axis.title.y =</span> <span class="cn">NULL</span>) <span class="co">#remove y axis label</span></span></code><button title="Copy to Clipboard" class="code-copy-button"><i class="bi"></i></button></pre></div>
+<div class="sourceCode cell-code" id="cb24"><pre class="sourceCode r code-with-copy"><code class="sourceCode r"><span id="cb24-1"><a href="#cb24-1" aria-hidden="true" tabindex="-1"></a><span class="fu">ggsave</span>(<span class="st">"remadegraph.png"</span>, <span class="at">width =</span> <span class="dv">5</span>, <span class="at">height =</span> <span class="dv">5</span>)</span></code><button title="Copy to Clipboard" class="code-copy-button"><i class="bi"></i></button></pre></div>
 </div>
-<p><img src="remadegraph.png" class="img-fluid"></p>
+<p><img src="remadegraph.png" class="img-fluid" width="417"></p>
 <p>After adjusting the height and width of the final graph, the remade plot is pretty close to the original graph. The biggest differences that I could not code for is the font and removal of holidays.</p>
 </section>
 <section id="troublesissues" class="level2">
